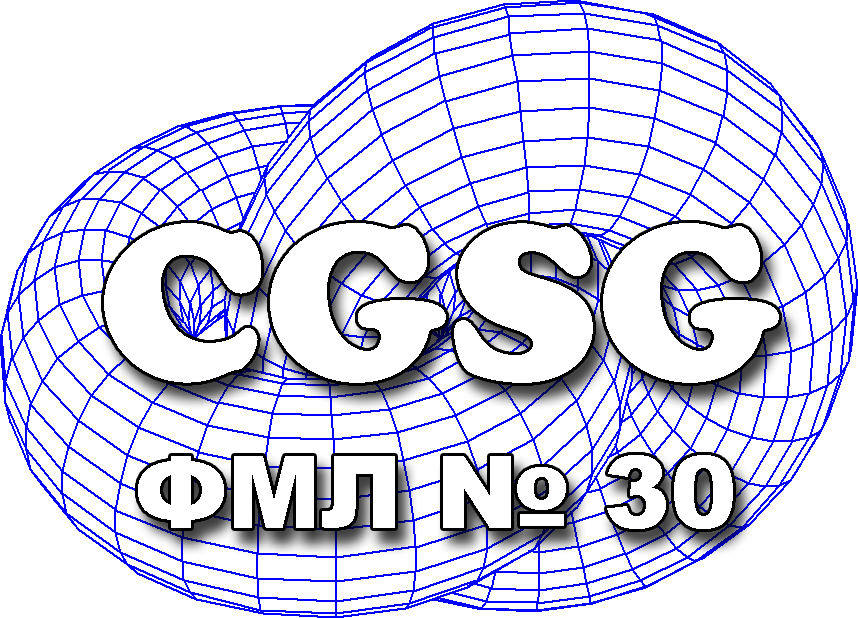
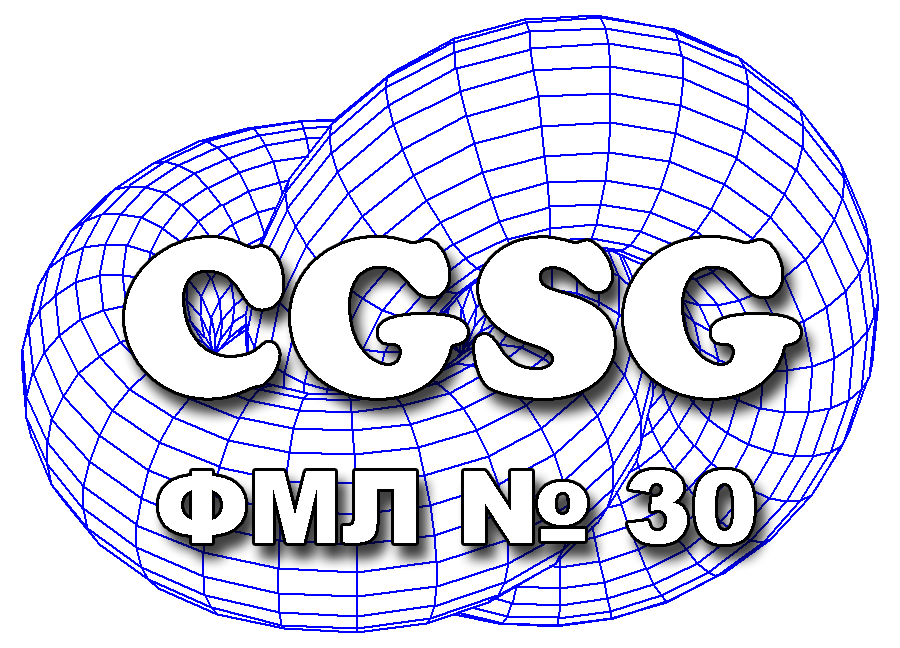
Title page, code example and styling

diff --git a/_static/custom.css b/_static/custom.css
@@ -1,0 +1,21 @@
+pre {
+  margin-top: 0px !important;
+  margin-bottom: 0px !important;
+}
+
+table.docutils td, table.docutils th {
+  border-bottom: 0;
+}
+
+table.center-cells td, table.center-cells img {
+  vertical-align: middle;
+}
+
+.python-logo img {
+  padding-top: 20px;
+}
+
+h1 {
+  text-align: center;
+  margin-top: 100px !important;
+}

diff --git a/conf.py b/conf.py
@@ -272,16 +272,17 @@ extensions += [
     'hieroglyph',
 ]
 
-slide_theme = 'slides'
+#slide_theme = 'slides'
+slide_theme = 'single-level'
 slide_levels = 3
 
 # Place custom static assets in the _static directory and uncomment
 # the following lines to include them
 
-# slide_theme_options = {
-#     'custom_css': 'custom.css',
-#     'custom_js': 'custom.js',
-# }
+slide_theme_options = {
+    'custom_css': 'custom.css',
+    'custom_js': 'custom.js',
+}
 
 # ----------------------------------------------
 

diff --git a/examples/factorial.py b/examples/factorial.py
@@ -1,0 +1,7 @@
+def factorial(n):
+    if n <= 1:
+        return 1
+    else:
+        return n * factorial(n - 1)
+
+print("Factorial of 5 is", factorial(5))

diff --git a/index.rst b/index.rst
@@ -3,13 +3,54 @@
    hieroglyph-quickstart on Tue Feb 18 01:11:59 2014.
 
 
-Язык программирования Python
-============================
+=====================
+Язык программирования
+=====================
 
-Contents:
-
-.. toctree::
-   :maxdepth: 2
-
+.. rst-class:: python-logo
+.. figure:: /_static/images/python-logo-generic.svg
+   :align: center
 
 
+.. rst-class:: center-cells
+.. list-table::
+
+   * - .. image:: /_static/images/cgsg.png
+          :width: 200 px
+     - Владимир Руцкий rutsky.vladimir@gmail.com
+     - .. image:: /_static/images/pml30.png
+          :width: 200 px
+
+План лекции
+===========
+
+* Часть I
+
+  * Что такое Python?
+
+  * Зачем нужен Python и где его используют?
+
+* Часть II
+
+  * Установка Python
+
+  * Введение в Python
+
+  * Практика
+
+
+Что такое Python?
+=================
+
+* Python ([ˈpʌɪθ(ə)n] — *пайтон*) — язык программирования (далее ЯП)
+
+* Разрабатывался с 1990 года (для сравнения: C — с 1969, C++ — с 1983)
+
+* Оригинальный автор: Гвидо ван Россум (Guido van Rossum)
+
+* http://python.org
+
+  .. list-table::
+
+     * - .. literalinclude:: examples/factorial.py
+       - .. literalinclude:: examples/factorial.out
